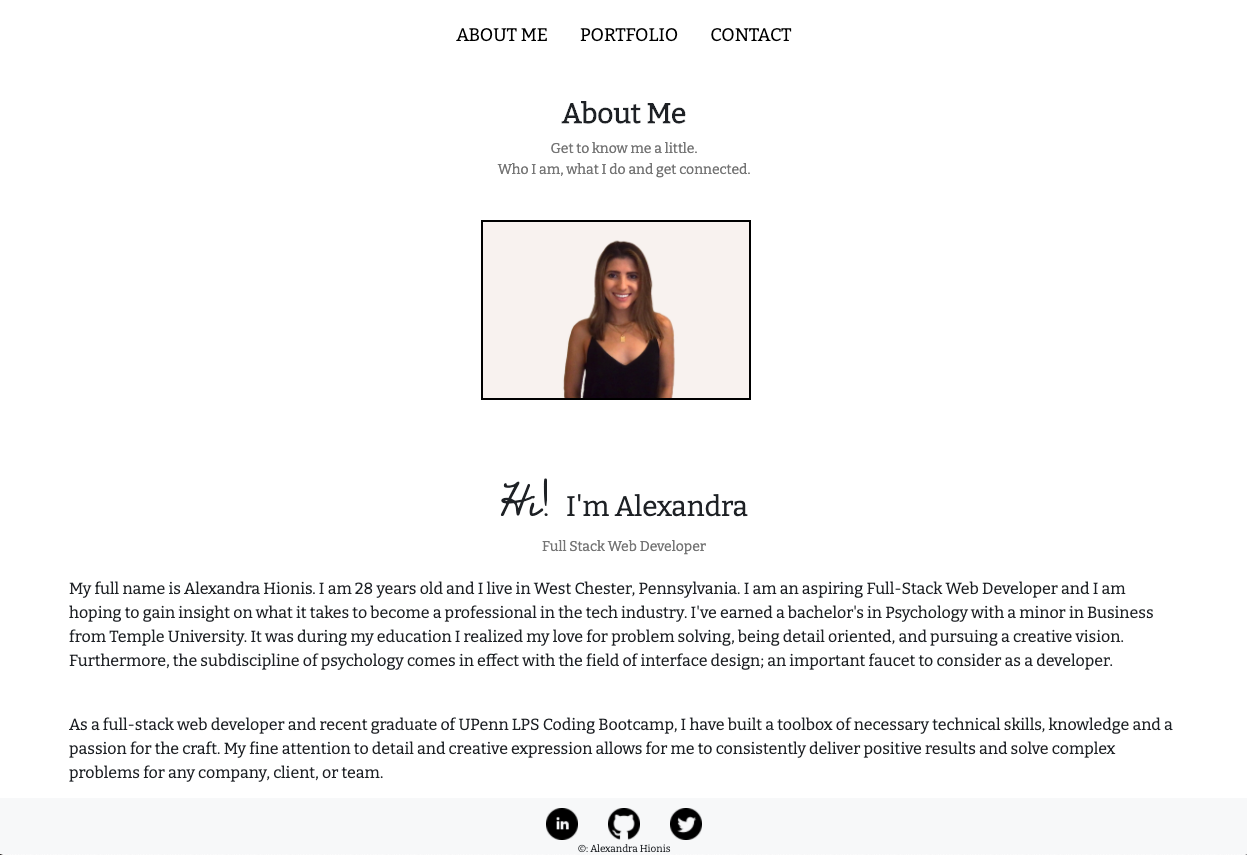
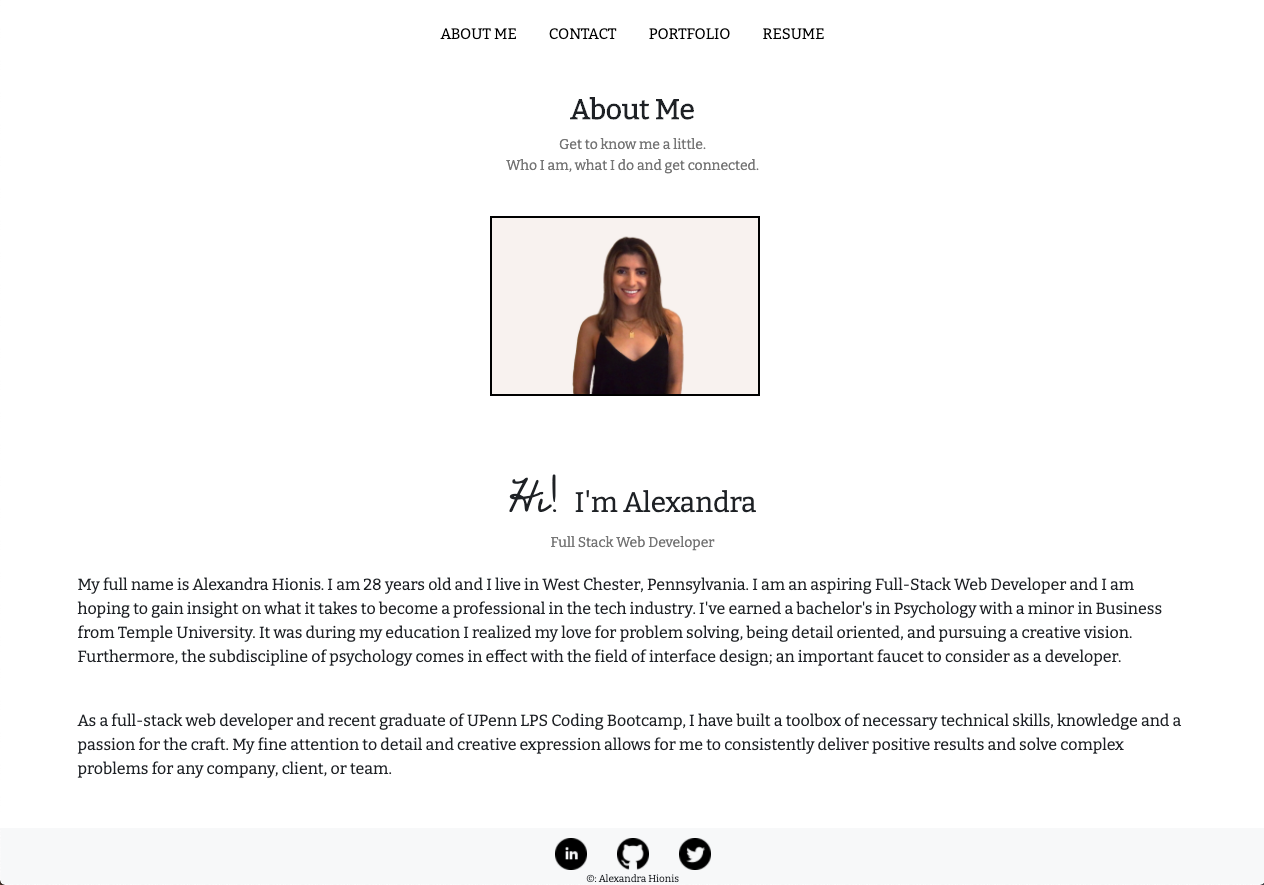
decided to forgo the drop down decision. Implications with my portfolio link. Added resume and updated read me

diff --git a/index.html b/index.html
@@ -29,14 +29,11 @@
           <li class="nav-item">
             <a class="nav-link" href="contact.html">Contact</a>
           </li>
-          <li id="portfolioLink" class="nav-item dropdown nav-item">
-            <a class="nav-link dropdown-toggle" href="portfolio.html" id="navbarDropdown" role="button"
-              data-toggle="dropdown" aria-haspopup="true" aria-expanded="false">
-              Portfolio
-            </a>
-            <div class="dropdown-menu" aria-labelledby="navbarDropdown">
-              <a class="dropdown-item" href="assets/images/Resume.pdf">Resume</a>
-            </div>
+          <li class="nav-item">
+            <a class="nav-link" href="portfolio.html">Portfolio</a>
+          </li>
+          <li class="nav-item">
+            <a class="nav-link" href="assets/images/Resume.pdf">Resume</a>
           </li>
         </ul>
       </nav>
@@ -89,9 +86,4 @@
 
 
 </body>
-  <script src="https://code.jquery.com/jquery-3.5.1.slim.min.js"
-  integrity="sha384-DfXdz2htPH0lsSSs5nCTpuj/zy4C+OGpamoFVy38MVBnE+IbbVYUew+OrCXaRkfj" crossorigin="anonymous"></script>
-  <script src="https://cdn.jsdelivr.net/npm/bootstrap@4.5.3/dist/js/bootstrap.bundle.min.js"
-  integrity="sha384-ho+j7jyWK8fNQe+A12Hb8AhRq26LrZ/JpcUGGOn+Y7RsweNrtN/tE3MoK7ZeZDyx" crossorigin="anonymous"></script>
-<script src="assets/js/portfolio.js"></script>
 </html>

diff --git a/contact.html b/contact.html
@@ -28,14 +28,11 @@
           <li class="nav-item">
             <a class="nav-link" href="contact.html">Contact</a>
           </li>
-          <li id="portfolioLink" class="nav-item dropdown nav-item">
-            <a class="nav-link dropdown-toggle" href="portfolio.html" id="navbarDropdown" role="button"
-              data-toggle="dropdown" aria-haspopup="true" aria-expanded="false">
-              Portfolio
-            </a>
-            <div class="dropdown-menu" aria-labelledby="navbarDropdown">
-              <a class="dropdown-item" href="assets/images/Resume.pdf">Resume</a>
-            </div>
+          <li class="nav-item">
+            <a class="nav-link" href="portfolio.html">Portfolio</a>
+          </li>
+          <li class="nav-item">
+            <a class="nav-link" href="assets/images/Resume.pdf">Resume</a>
           </li>
         </ul>
       </nav>

diff --git a/portfolio.html b/portfolio.html
@@ -31,14 +31,11 @@
         <li class="nav-item">
           <a class="nav-link" href="contact.html">Contact</a>
         </li>
-        <li id="portfolioLink" class="nav-item dropdown nav-item">
-          <a class="nav-link dropdown-toggle" href="portfolio.html" id="navbarDropdown" role="button"
-            data-toggle="dropdown" aria-haspopup="true" aria-expanded="false">
-            Portfolio
-          </a>
-          <div class="dropdown-menu" aria-labelledby="navbarDropdown">
-            <a class="dropdown-item" href="assets/images/Resume.pdf">Resume</a>
-          </div>
+        <li class="nav-item">
+          <a class="nav-link" href="portfolio.html">Portfolio</a>
+        </li>
+        <li class="nav-item">
+          <a class="nav-link" href="assets/images/Resume.pdf">Resume</a>
         </li>
       </ul>
     </nav>

diff --git a/assets/js/portfolio.js b/assets/js/portfolio.js
@@ -1,10 +1,10 @@
   
-$(function() {
-$(document).ready(function(){
-    // Show dropdown when 'portfolio' is clicked
-    $("#portfolioLink").onClick(function(){
-    	$('.dropdown-toggle').dropdown('show');
-    });
+// $(function() {
+// $(document).ready(function(){
+//     // Show dropdown when 'portfolio' is clicked
+//     $("#portfolioLink").onClick(function(){
+//     	$('.dropdown-toggle').dropdown('show');
+//     });
 
-    }); 
-});
+//     }); 
+// });

diff --git a/assets/css/contact.css b/assets/css/contact.css
@@ -1,6 +1,7 @@
 /* body style */
 body{
     background-color: white;
+    margin-top: 15px;
     min-height: 400px;
     margin-bottom: 100px;
     clear: both; 
@@ -8,7 +9,7 @@ body{
 
 /* link styles */
 a:hover {
-    color: #494f5f;
+    color: lightgrey;
 }
 
 /* nav styles */
@@ -16,6 +17,7 @@ a:hover {
     color: black;
     font-family: 'Bitter', serif;
     text-transform: uppercase;
+    font-size: 15px;
 }
 
 .nav {

diff --git a/assets/css/portfolio.css b/assets/css/portfolio.css
@@ -1,14 +1,15 @@
 /* body style */
 body{
     background-color: white;
+    margin-top: 15px;
     min-height: 400px;
     margin-bottom: 100px;
     clear: both; 
-  }
+}
 
 /* link styles */
 a:hover {
-    color: #494f5f;
+    color: lightgrey;
 }
 
 a.two:link {
@@ -27,6 +28,7 @@ a.two:hover {
     color: black;
     font-family: 'Bitter', serif;
     text-transform: uppercase;
+    font-size: 15px;
 }
 
 .nav {

diff --git a/assets/css/styles.css b/assets/css/styles.css
@@ -4,13 +4,12 @@ body{
     margin-top: 15px;
     min-height: 400px;
     margin-bottom: 100px;
-    clear: both;
-    
+    clear: both; 
 }
 
 /* link styles */
 a:hover {
-    color: #494f5f;
+    color: lightgrey;
 }
 
 /* nav styles */
@@ -18,7 +17,7 @@ a:hover {
     color: black;
     font-family: 'Bitter', serif;
     text-transform: uppercase;
-    font-size: 18px;
+    font-size: 15px;
 }
 
 .nav {

diff --git a/README.md b/README.md
@@ -1,4 +1,4 @@
-#Portfolio & About Me Page
+Portfolio & About Me Page
 
 This project consists of an 'about me' page, a 'contact' page, and a 'profile page' highlighting some key attributes about myself. This was completed for Penn LPS Coding Bootcamp.
 This should display resposive bootstrap 4.5 webpages all utilizing rows, columns, grid system, and any other responsive elements.
